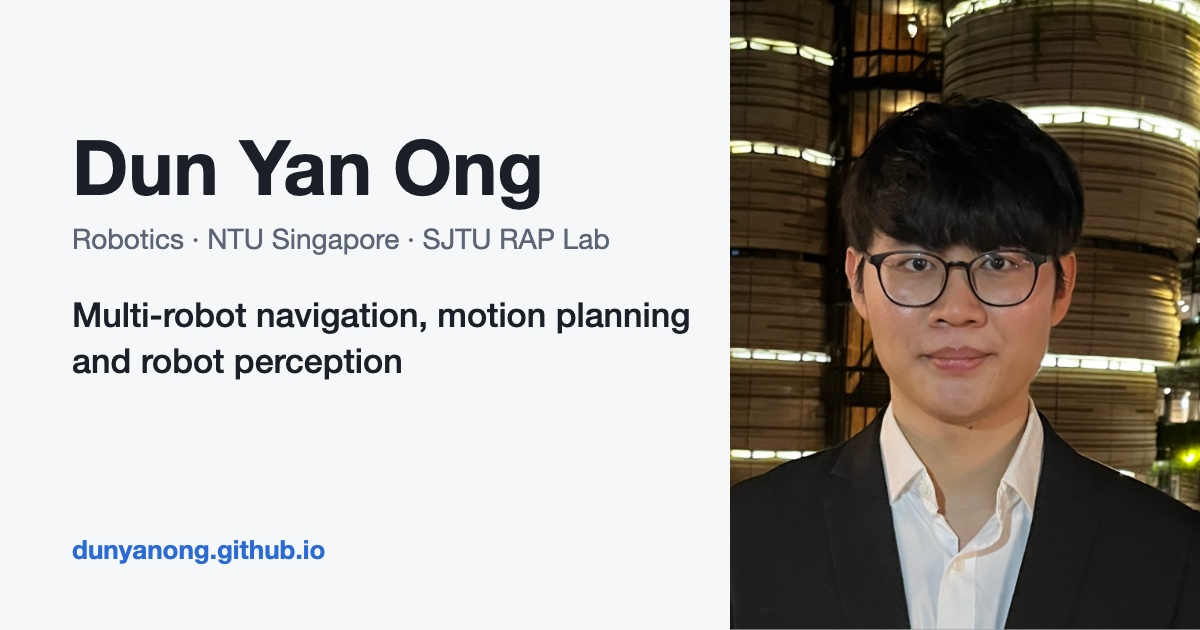
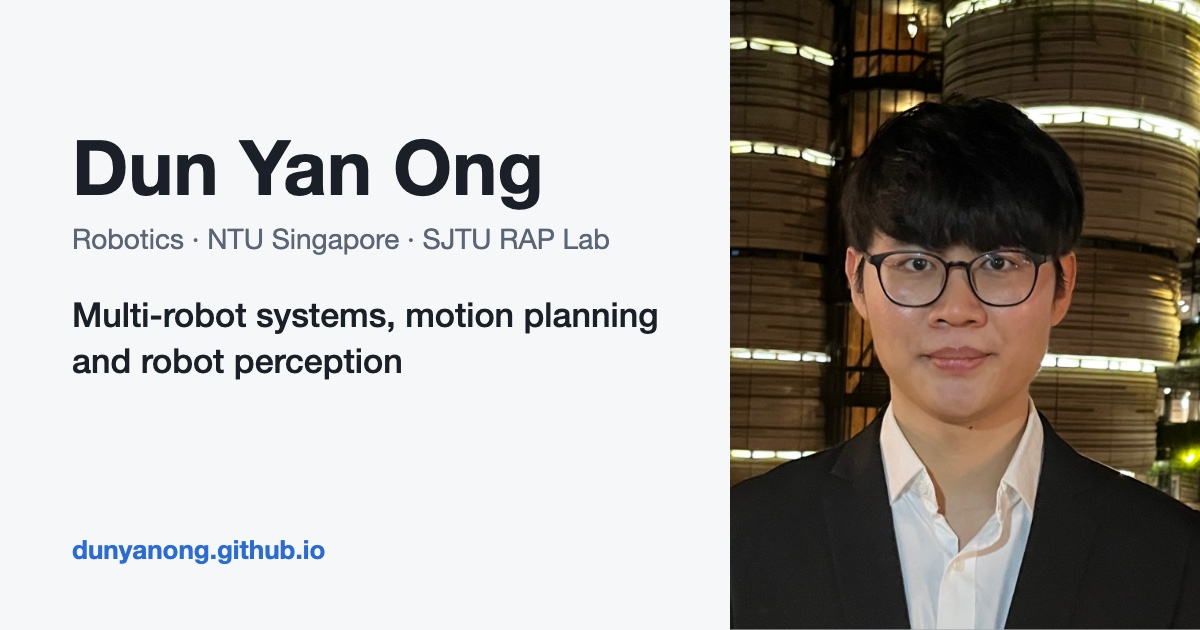
Describe research focus as multi-robot systems

Changed region(s): [[0.2158, 0.4825, 0.5858, 0.5429]]

diff --git a/index.html b/index.html
@@ -6,7 +6,7 @@ layout: home
   <h1>Dun Yan Ong <span class="hero-alt-name">(Ong Dun Yan)</span></h1>
   <p class="hero-lede">
     Final-year Electrical &amp; Electronic Engineering student at NTU Singapore, working on
-    <strong>multi-robot navigation</strong>, <strong>motion planning</strong> and <strong>robot perception</strong>.
+    <strong>multi-robot systems</strong>, <strong>motion planning</strong> and <strong>robot perception</strong>.
     Researcher at the SJTU Robotics Autonomy and Planning Lab, and team lead of NTU's ICRA BARN and RoboCup@Home teams.
   </p>
   <div class="hero-links">

diff --git a/_includes/metadata-hook.html b/_includes/metadata-hook.html
@@ -20,7 +20,7 @@
         { "@type": "ResearchOrganization", "name": "Robotics Autonomy and Planning Lab, Shanghai Jiao Tong University" }
       ],
       "knowsAbout": [
-        "Multi-robot navigation",
+        "Multi-robot systems",
         "Motion planning",
         "Multi-agent path finding",
         "Model predictive control",
